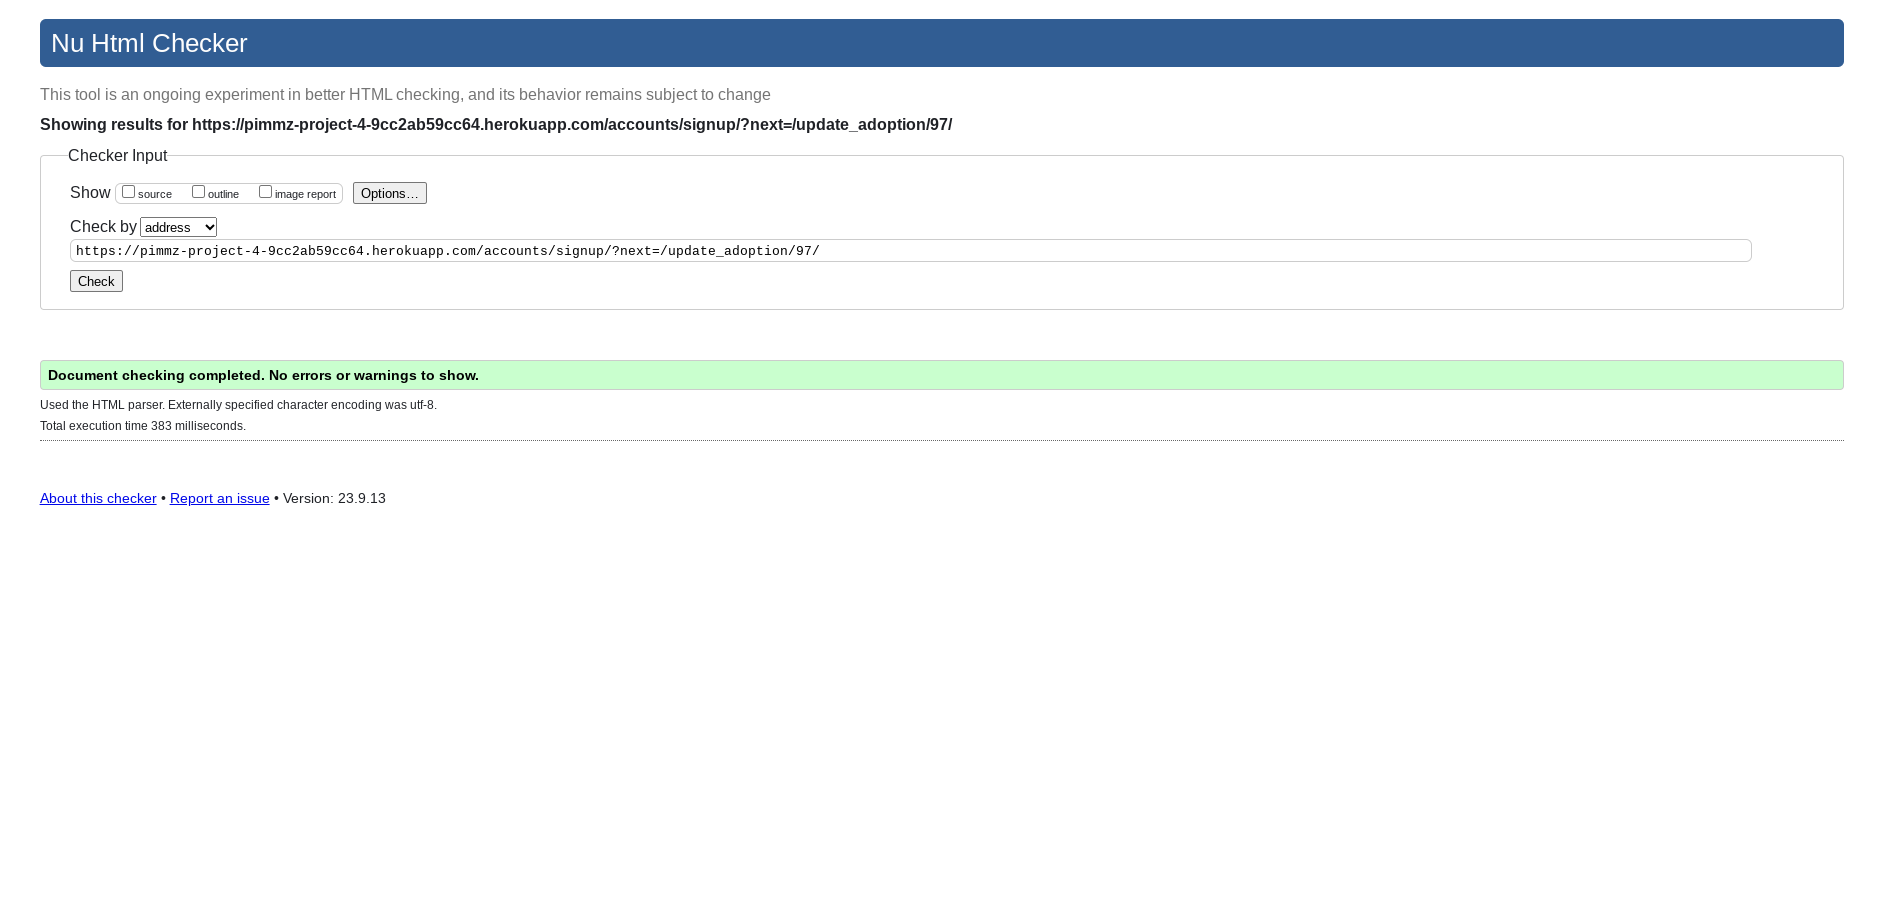
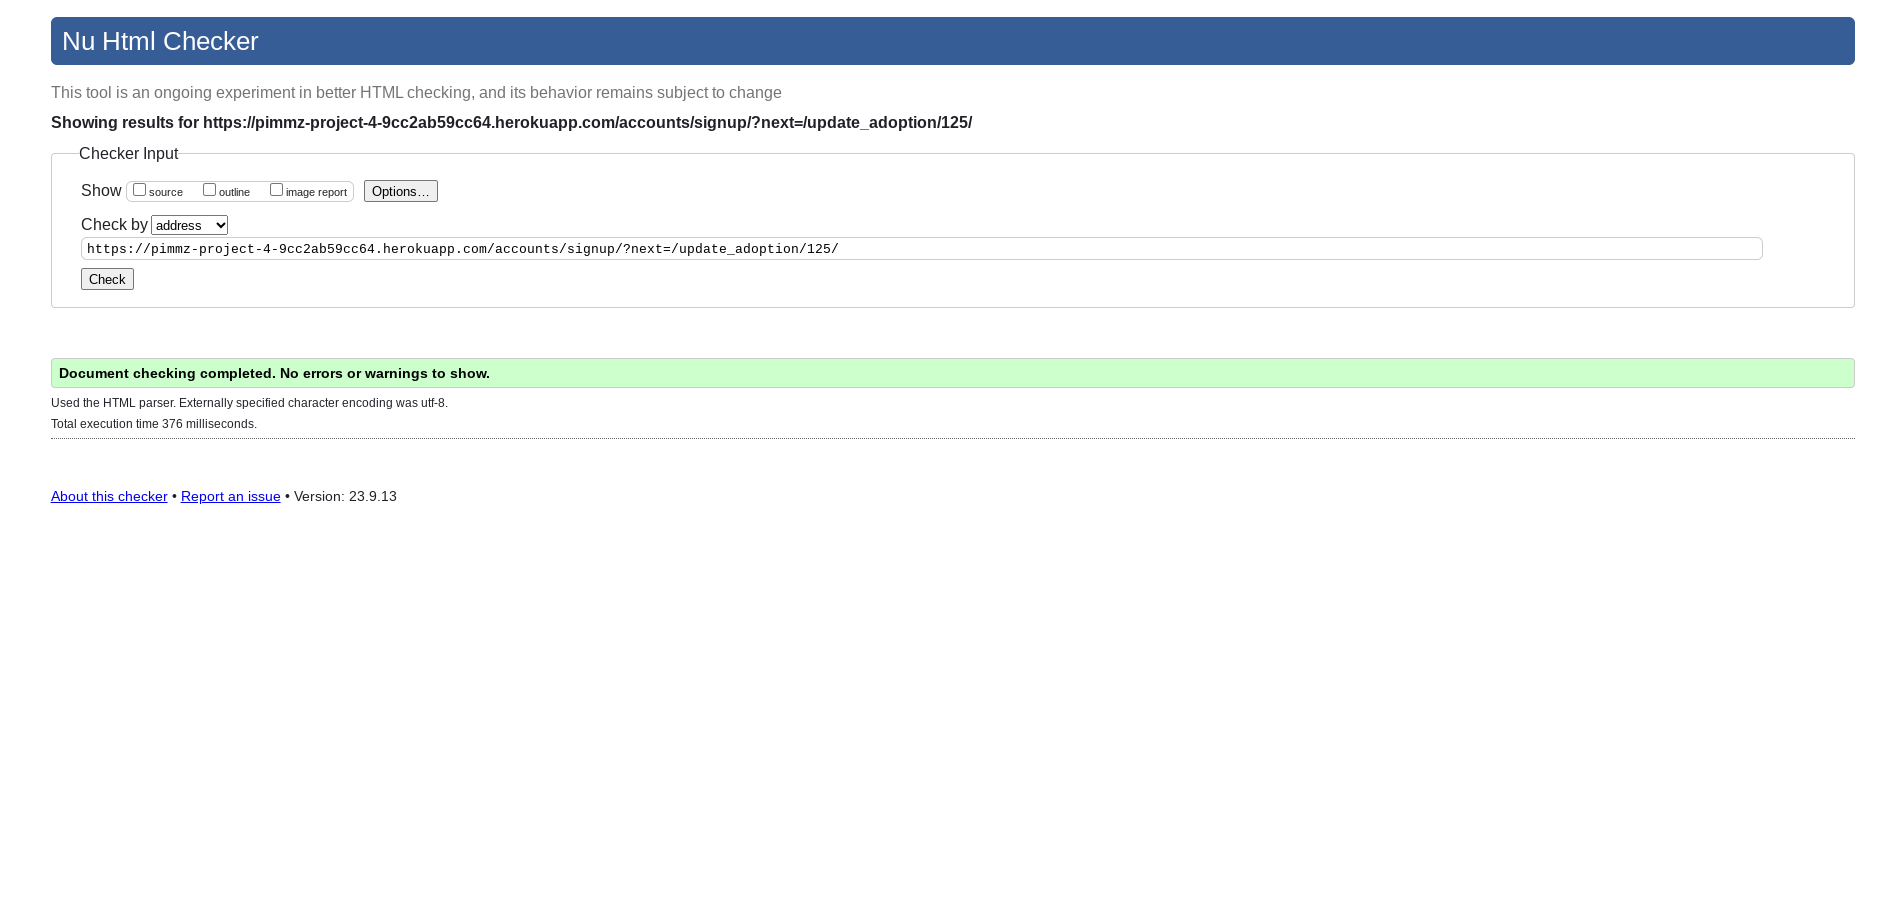
Update to testing html due to page amalgamation

diff --git a/TESTING.md b/TESTING.md
@@ -17,18 +17,12 @@ I have used the recommended [HTML W3C Validator](https://validator.w3.org) to va
 | About | [W3C](https://validator.w3.org/nu/?doc=https%3A%2F%2Fpimmz-project-4-9cc2ab59cc64.herokuapp.com%2Fabout%2F) | ![screenshot](documentation/testing_images/html/htmlcheck2.png) | Forbidden code point U+009d. Fixed by removing invalid syntax |
 | Register | [W3C](https://validator.w3.org/nu/?doc=https%3A%2F%2Fpimmz-project-4-9cc2ab59cc64.herokuapp.com%2Faccounts%2Fsignup%2F) | ![screenshot](documentation/testing_images/html/htmlcheck3.png) | There was an Error: Duplicate ID signup-form. Server 500. trailing slash. These wouldnt remedy by changing the duplicate Id or removing the slash and were traced back to a google authentication issue which the Tutors dont advise on. So I have had to delete the google and facebook button to resolve the error due to spending to much time on it which I simply dont have. |
 | Login | [W3C](https://validator.w3.org/nu/?doc=https%3A%2F%2Fpimmz-project-4-9cc2ab59cc64.herokuapp.com%2Faccounts%2Flogin%2F) | ![screenshot](documentation/testing_images/html/htmlcheck4.png) | Pass: No Errors |
-| Adoption| [W3C](https://validator.w3.org/nu/?doc=https%3A%2F%2Fpimmz-project-4-9cc2ab59cc64.herokuapp.com%2Faccounts%2Fsignup%2F%3Fnext%3D%2Fadoption%2F) | ![screenshot](documentation/testing_images/html/htmlcheck5.png) | Pass: No Errors |
-| Rehome | [W3C](https://validator.w3.org/nu/?doc=https%3A%2F%2Fpimmz-project-4-9cc2ab59cc64.herokuapp.com%2Faccounts%2Fsignup%2F%3Fnext%3D%2Frehome%2F) | ![screenshot](documentation/testing_images/html/htmlcheck6.png) |  Pass: No Errors |
-| Post Room | [W3C](https://validator.w3.org/nu/?doc=https%3A%2F%2Fpimmz-project-4-9cc2ab59cc64.herokuapp.com%2Faccounts%2Fsignup%2F%3Fnext%3D%2Fblog.html) | ![screenshot](documentation/testing_images/html/htmlcheck7.png) |  Pass: No Errors |
-| Adoption details | [W3C](https://validator.w3.org/nu/?doc=https%3A%2F%2Fpimmz-project-4-9cc2ab59cc64.herokuapp.com%2Faccounts%2Fsignup%2F%3Fnext%3D%2Fadoption%2F97%2F) | ![screenshot](documentation/testing_images/html/htmlcheck9.png) | Pass: No Errors |
-| Update adoption details | [W3C](https://validator.w3.org/nu/?doc=https%3A%2F%2Fpimmz-project-4-9cc2ab59cc64.herokuapp.com%2Faccounts%2Fsignup%2F%3Fnext%3D%2Fupdate_adoption%2F97%2F) | ![screenshot](documentation/testing_images/html/htmlcheck11.png) | Pass: No Errors |
-| Delete adoption details | [W3C](https://validator.w3.org/nu/?doc=https%3A%2F%2Fpimmz-project-4-9cc2ab59cc64.herokuapp.com%2Faccounts%2Fsignup%2F%3Fnext%3D%2Fdelete_adoption%2F98%2F) | ![screenshot](documentation/testing_images/html/htmlcheck12.png) | Pass: No Errors |
+| Adoption/Rehome| [W3C](https://validator.w3.org/nu/?doc=https%3A%2F%2Fpimmz-project-4-9cc2ab59cc64.herokuapp.com%2Faccounts%2Fsignup%2F%3Fnext%3D%2Fadoption%2F) | ![screenshot](documentation/testing_images/html/htmlcheck5.png) | Pass: No Errors |
+| Adoption/rehome details | [W3C](https://validator.w3.org/nu/?doc=https%3A%2F%2Fpimmz-project-4-9cc2ab59cc64.herokuapp.com%2Faccounts%2Fsignup%2F%3Fnext%3D%2Fadoption%2F29%2F) | ![screenshot](documentation/testing_images/html/htmlcheck9.png) | Pass: No Errors |
+| Update adoption/rehome details | [W3C](https://validator.w3.org/nu/?doc=https%3A%2F%2Fpimmz-project-4-9cc2ab59cc64.herokuapp.com%2Faccounts%2Fsignup%2F%3Fnext%3D%2Fupdate_adoption%2F125%2F) | ![screenshot](documentation/testing_images/html/htmlcheck11.png) | Pass: No Errors |
+| Delete adoption/rehome details | [W3C](https://validator.w3.org/nu/?doc=https%3A%2F%2Fpimmz-project-4-9cc2ab59cc64.herokuapp.com%2Faccounts%2Fsignup%2F%3Fnext%3D%2Fdelete_adoption%2F98%2F) | ![screenshot](documentation/testing_images/html/htmlcheck12.png) | Pass: No Errors |
 | No adoption Details | [W3C](https://pimmz-project-4-9cc2ab59cc64.herokuapp.com/adoption/29/) | ![screenshot](documentation/testing_images/html/htmlcheck10.png) | Pass: No Errors |
-| Rehome details | [W3C](https://validator.w3.org/nu/?doc=https%3A%2F%2Fpimmz-project-4-9cc2ab59cc64.herokuapp.com%2Faccounts%2Fsignup%2F%3Fnext%3D%2Frehome%2F) | ![screenshot](documentation/testing_images/html/htmlcheck13.png) | Pass: No Errors |
-| No Rehome details | [W3C](https://validator.w3.org/nu/?doc=https%3A%2F%2Fpimmz-project-4-9cc2ab59cc64.herokuapp.com%2Faccounts%2Fsignup%2F%3Fnext%3D%2Frehome%2F26%2F) | ![screenshot](documentation/testing_images/html/htmlcheck14.png) | Pass: No Errors |
-| Update rehome details | [W3C](https://validator.w3.org/nu/?doc=https%3A%2F%2Fpimmz-project-4-9cc2ab59cc64.herokuapp.com%2Faccounts%2Fsignup%2F%3Fnext%3D%2Fupdate_rehome%2F48%2F) | ![screenshot](documentation/testing_images/html/htmlcheck15.png) | Pass: No Errors |
-| Delete rehome details | [W3C](https://validator.w3.org/nu/?doc=https%3A%2F%2Fpimmz-project-4-9cc2ab59cc64.herokuapp.com%2Faccounts%2Fsignup%2F%3Fnext%3D%2Fdelete_rehome%2F48%2F) | ![screenshot](documentation/testing_images/html/htmlcheck16.png) | Pass: No Errors |
-
+| Post Room | [W3C](https://validator.w3.org/nu/?doc=https%3A%2F%2Fpimmz-project-4-9cc2ab59cc64.herokuapp.com%2Faccounts%2Fsignup%2F%3Fnext%3D%2Fblog.html) | ![screenshot](documentation/testing_images/html/htmlcheck7.png) |  Pass: No Errors |
 
 ### CSS
 

diff --git a/README.md b/README.md
@@ -356,7 +356,7 @@ Custom Error Pages were created to give the user more information on the error a
 
 ![Google](documentation/readme_images/google.png)
 ![Facebook](documentation/readme_images/facebook.png)
-- 
+
 ### Future Features
 
 The following user stories were scoped out of the project due to time constraints and labelled as "Nice to Have" on the project board in Github and put into the "No time to complete" column. It is intended that these user stories will be implemented at a later date.
